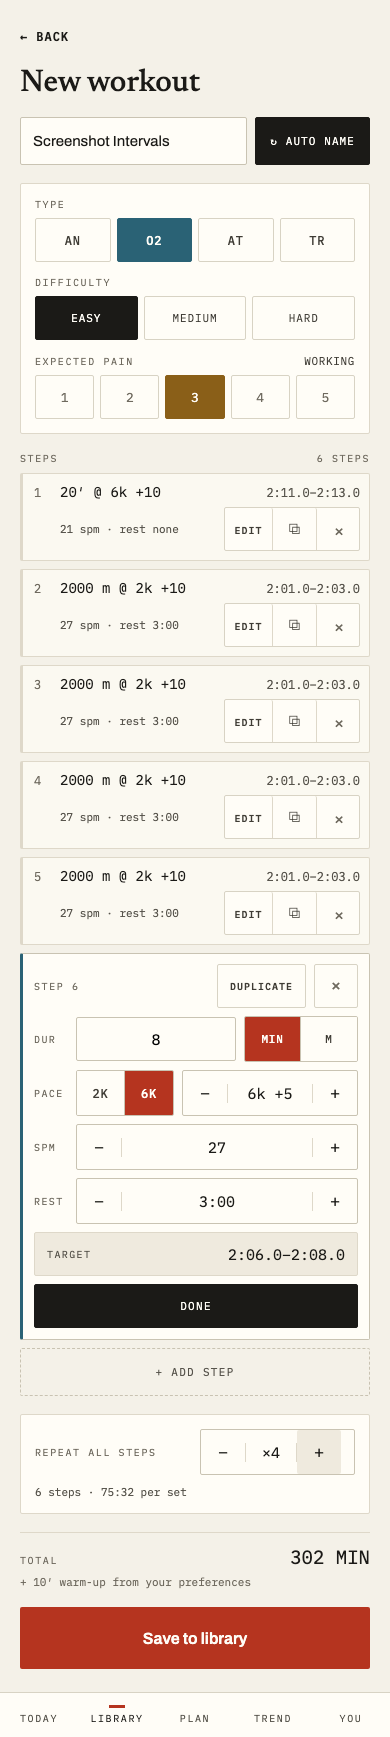
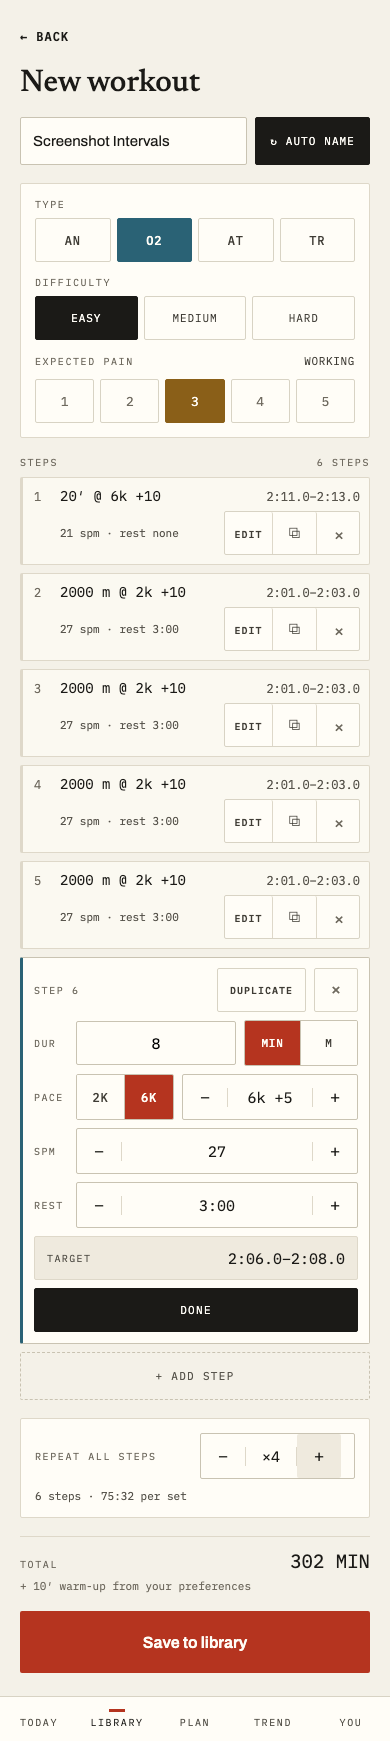
fix: picking a pain level no longer nudges the chips down
The level word ("WORKING") renders only once a level is picked and sets
11px against the label's 10px, so the label row grew on first tap and
pushed the pain chips — and everything below them — down under the user's
thumb. The row now reserves enough height for either state.

Reported on device. Locked by a design.spec.ts assertion that compares the
chip's y before and after the tap (it fails by 1px on the old CSS).

Also: the `signin` screenshot was the one capture in screenshots.spec.ts
that didn't wait for content, and this run caught the page between load and
first paint — a blank cream rectangle that the spec happily passed. It now
waits for the Google link, like every other capture in the file.

Claude-Session: https://claude.ai/code/session_01UEXqdgDid4Qjd8D5uoRZ3H

diff --git a/app/e2e/design.spec.ts b/app/e2e/design.spec.ts
@@ -239,6 +239,23 @@ test.describe("builder screen", () => {
     expect(o2ChipBg).toBe("rgb(42, 98, 117)"); // --type-o2
   });
 
+  // The pain level's word ("WORKING") only renders once a level is picked,
+  // and it sets in 11px against the label's 10px — so the label row grew
+  // taller on first selection and pushed the chips, and everything below
+  // them, down under the user's thumb. The label row now reserves its line
+  // box, so picking a level moves nothing.
+  test("picking a pain level does not shift the chips below it", async ({
+    page,
+  }) => {
+    const chip = page.getByRole("button", { name: "Pain 3" });
+    const before = await chip.boundingBox();
+    await chip.click();
+    await expect(page.getByText("WORKING")).toBeVisible();
+    const after = await chip.boundingBox();
+
+    expect(after?.y).toBe(before?.y);
+  });
+
   // A prior review (5B) only ever swept the builder blank — never after a
   // failed Save exposes its error-state markup (role=alert banners,
   // aria-invalid/aria-describedby on the first bad field, inline field-error

diff --git a/app/src/index.css b/app/src/index.css
@@ -342,6 +342,13 @@ button:disabled {
   display: flex;
   align-items: baseline;
   justify-content: space-between;
+  /* The level word renders only once a level is picked, and it sets 1px
+     larger than the label — so the row used to grow on first tap and push
+     the pain chips (and everything below them) down under the user's thumb.
+     Reserving more height than either state needs makes the row's height
+     constant, whether or not the word is there. Locked by design.spec.ts
+     ("picking a pain level does not shift the chips below it"). */
+  min-height: 18px;
 }
 
 .classification-pain-word {

diff --git a/app/e2e/screenshots.spec.ts b/app/e2e/screenshots.spec.ts
@@ -41,6 +41,13 @@ async function setBaselines(page: Page): Promise<void> {
 
 test("signin", async ({ page }) => {
   await page.goto("/");
+  // The only capture here that didn't wait for content, and it eventually
+  // bit: a run caught the page between load and first paint and committed a
+  // blank cream rectangle. Every other test in this file waits for a real
+  // element first — this one now does too.
+  await page
+    .getByRole("link", { name: /continue with google/i })
+    .waitFor({ state: "visible" });
   await page.screenshot({
     path: path.join(SCREENSHOTS_DIR, "signin.png"),
   });
